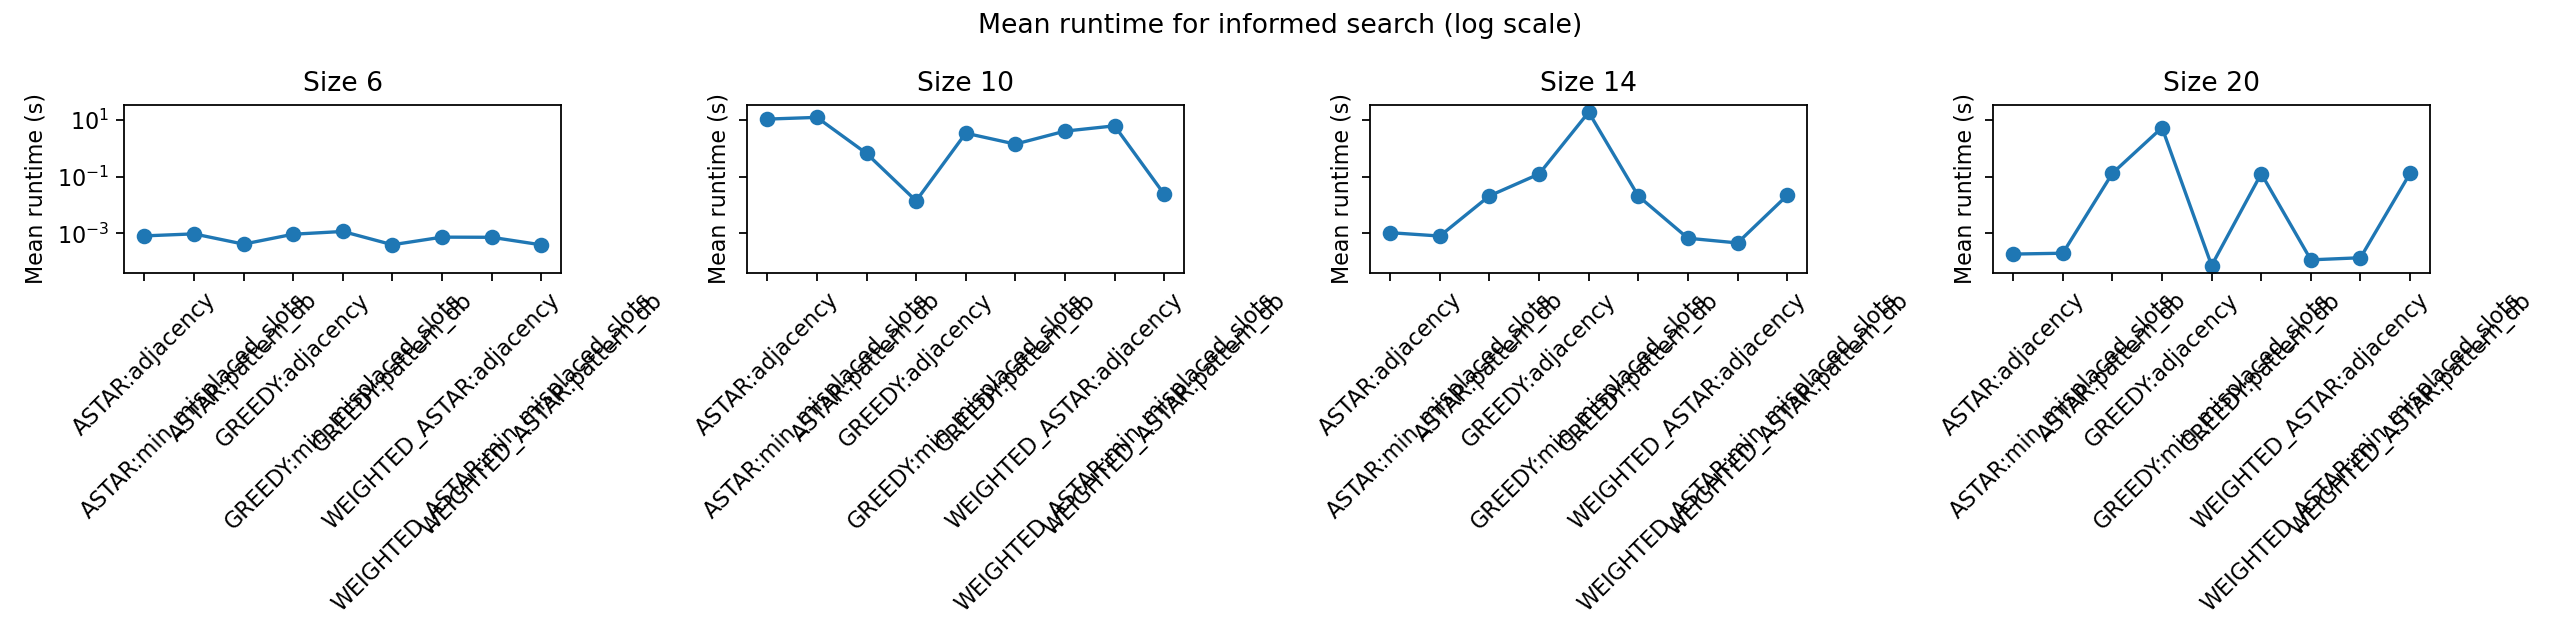
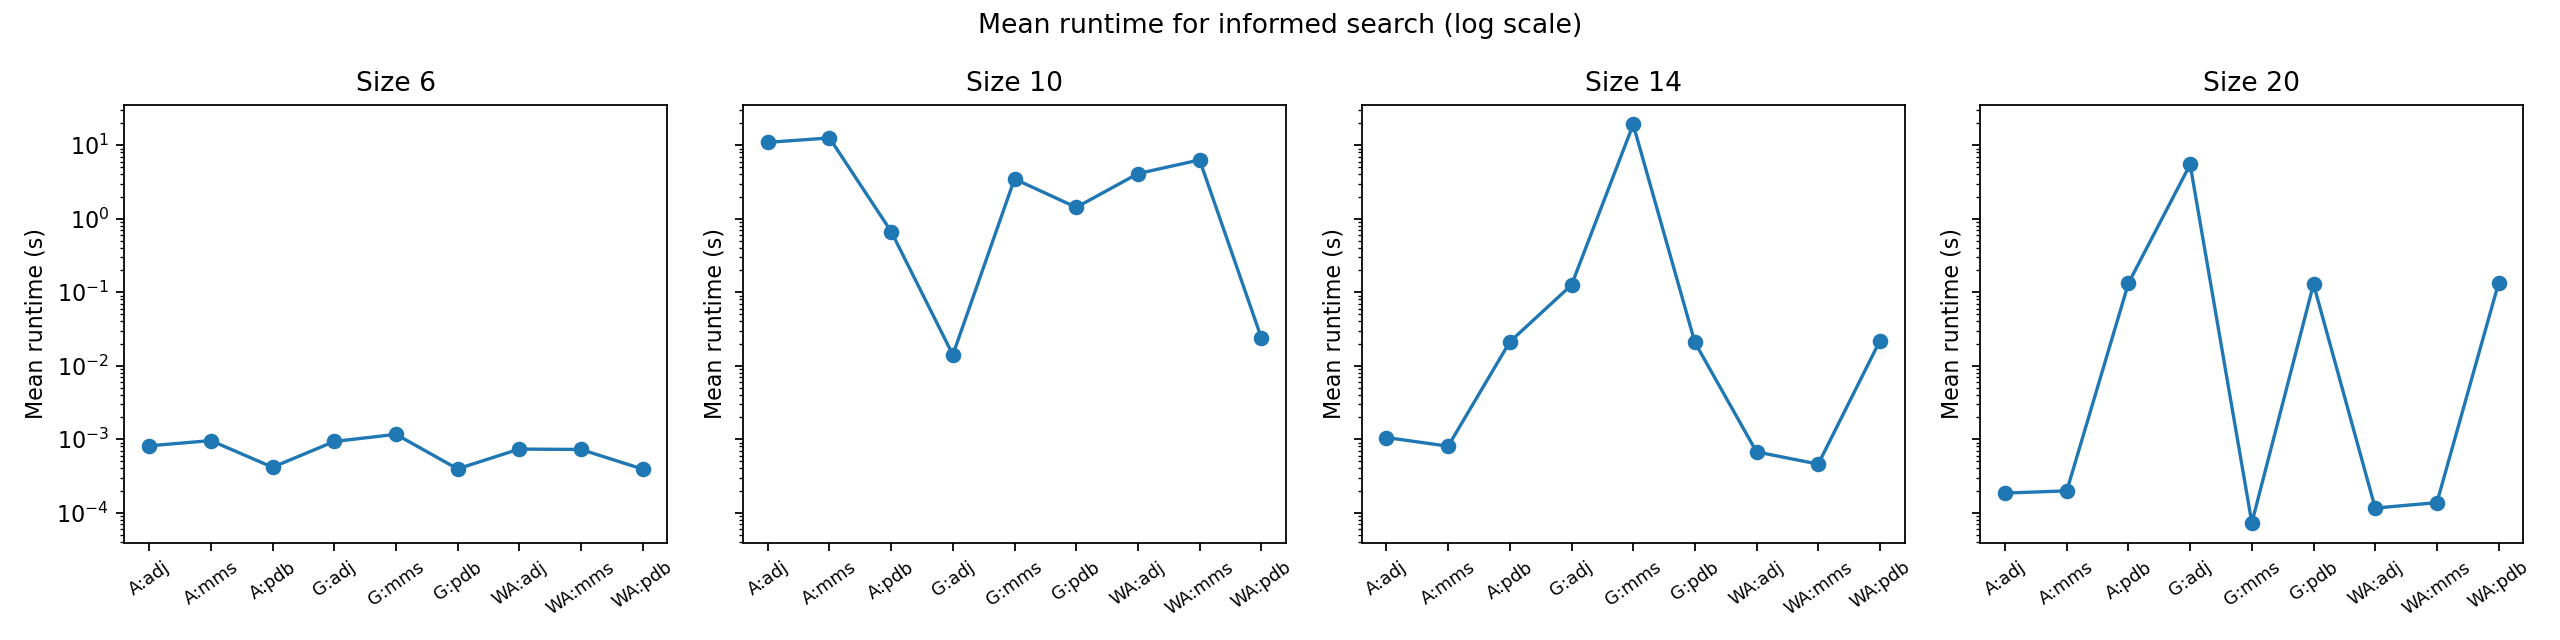
updated graphs and slides

diff --git a/analysis/scripts/plot_performance.py b/analysis/scripts/plot_performance.py
@@ -84,7 +84,7 @@ def plot_runtime_by_algo(rows: list[dict[str, str]], out_dir: Path) -> None:
         row["time(s)"] = parse_float(row["time(s)"])
     means = mean_by(rows, ("size", "algo"), "time(s)")
 
-    fig, axes = plt.subplots(1, len(sizes), figsize=(4 * len(sizes), 4), sharey=True)
+    fig, axes = plt.subplots(1, len(sizes), figsize=(4 * len(sizes), 4.5), sharey=True)
     if len(sizes) == 1:
         axes = [axes]
 
@@ -130,13 +130,22 @@ def plot_informed_by_heuristic(rows: list[dict[str, str]], out_dir: Path) -> Non
             if s == size
         ]
         entries.sort(key=lambda item: (item[0], item[1]))
-        labels = [f"{algo}:{heuristic}" for algo, heuristic, _ in entries]
+        algo_short = {"ASTAR": "A", "WEIGHTED_ASTAR": "WA", "GREEDY": "G"}
+        heuristic_short = {
+            "adjacency": "adj",
+            "min_misplaced_slots": "mms",
+            "pattern_db": "pdb",
+        }
+        labels = [
+            f"{algo_short.get(algo, algo)}:{heuristic_short.get(heuristic, heuristic)}"
+            for algo, heuristic, _ in entries
+        ]
         plotted = [value for _, _, value in entries]
         ax.plot(labels, plotted, marker="o")
         ax.set_title(f"Size {size}")
         ax.set_yscale("log")
         ax.set_ylabel("Mean runtime (s)")
-        ax.tick_params(axis="x", rotation=45)
+        ax.tick_params(axis="x", rotation=35, labelsize=8)
 
     fig.suptitle("Mean runtime for informed search (log scale)")
     fig.tight_layout()
